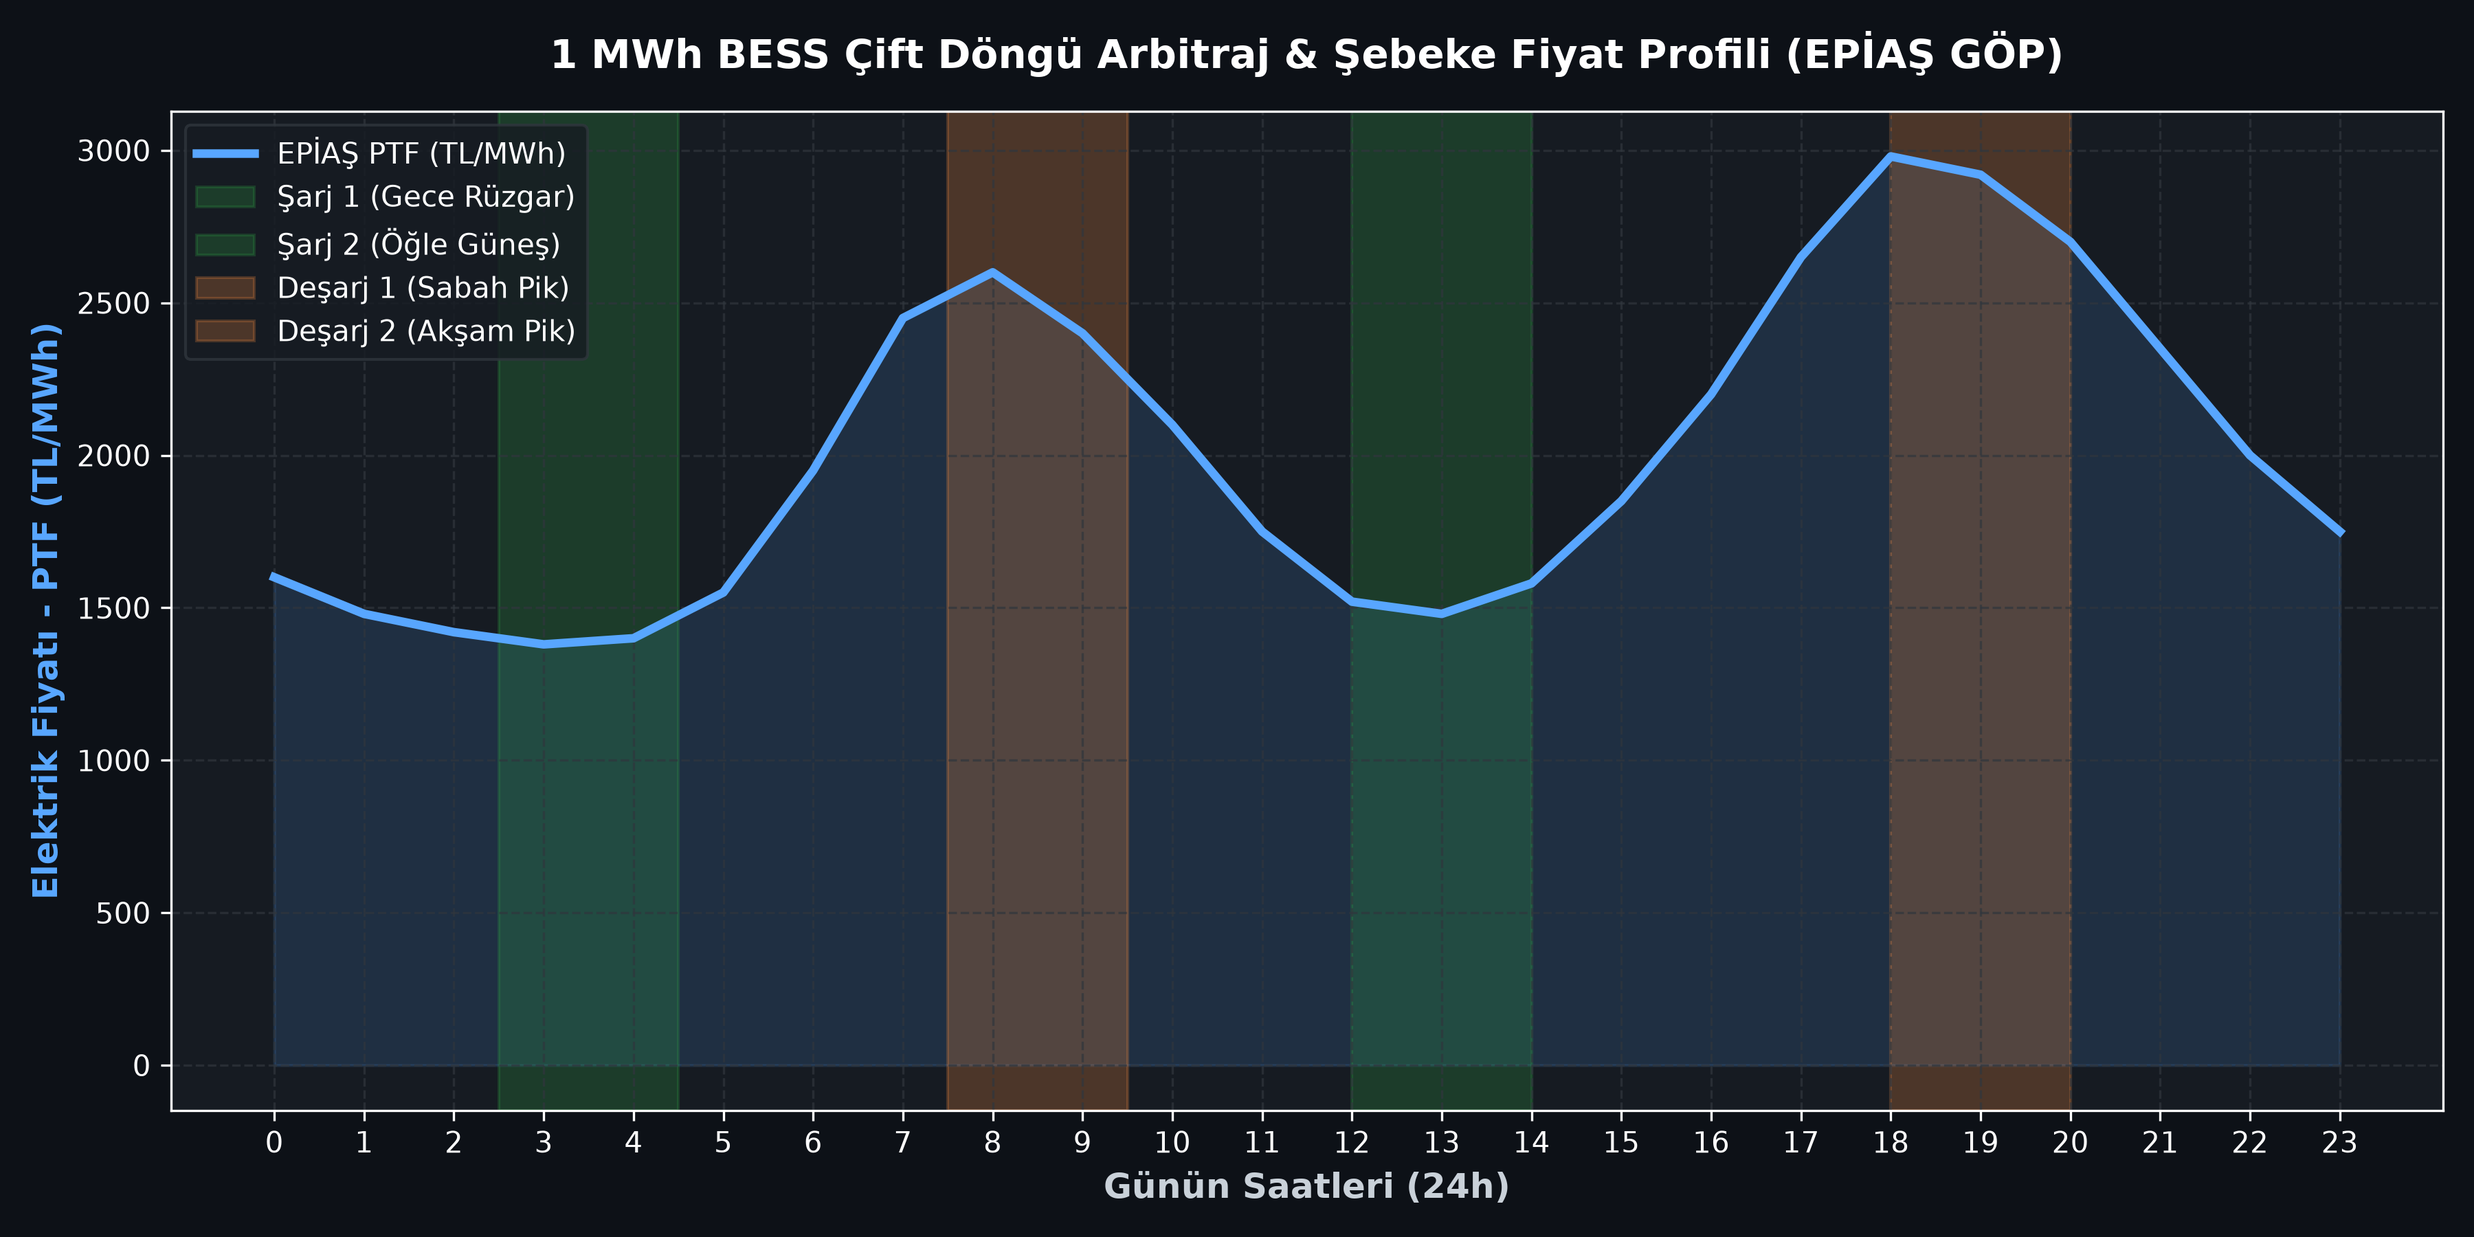
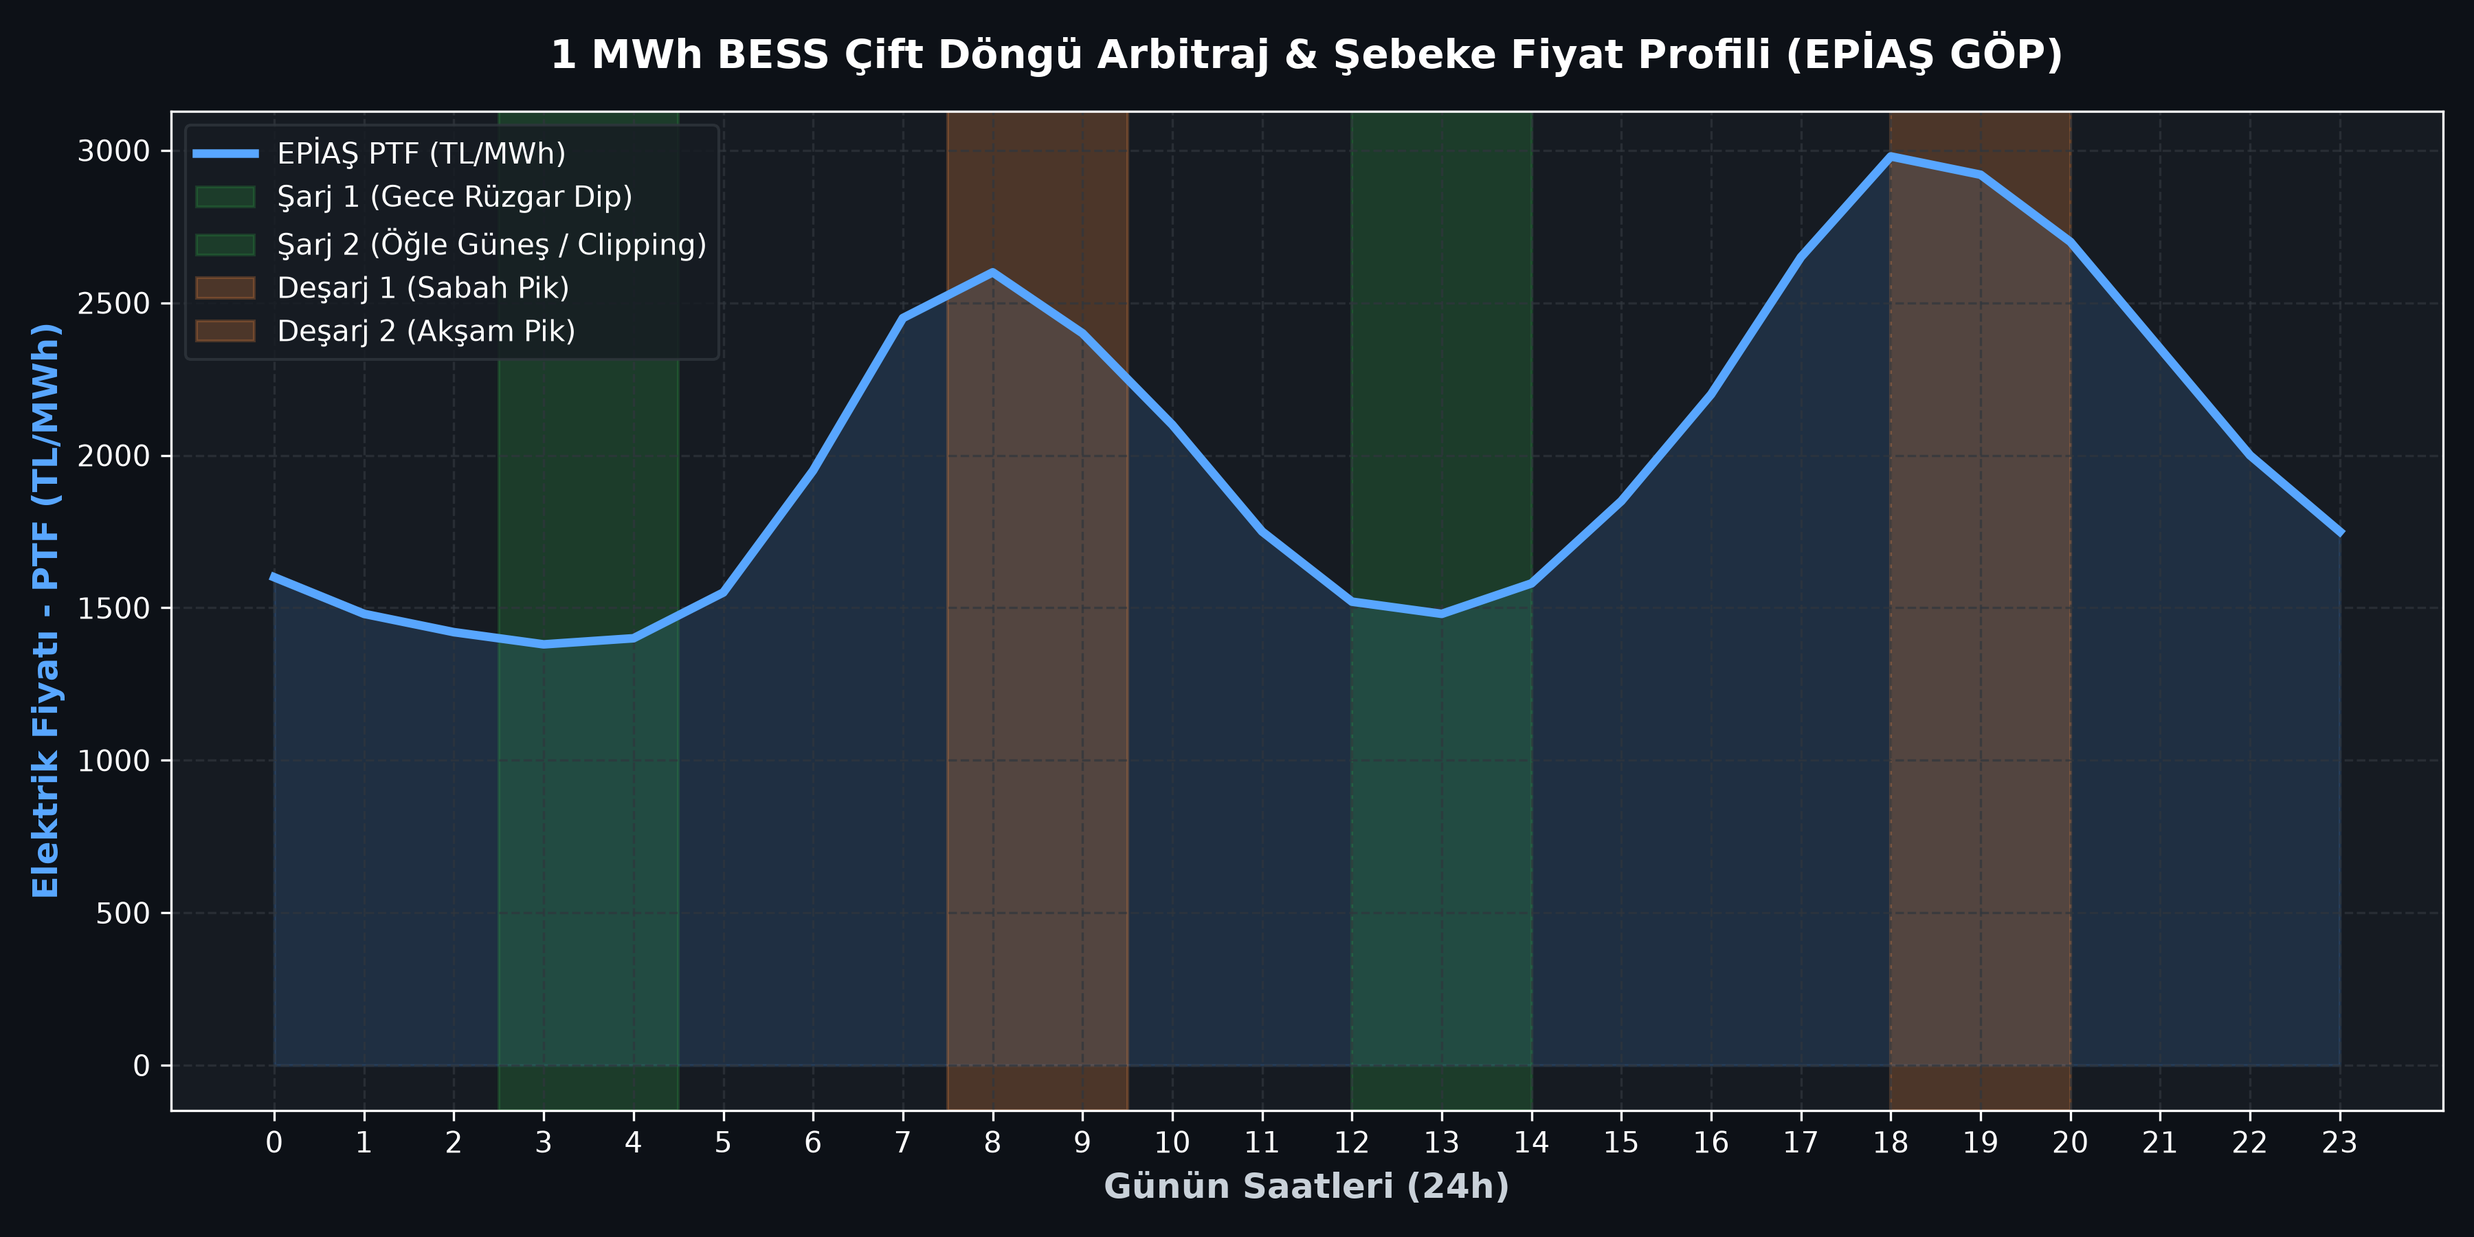
feat: add 1C vs 0.5C thermal loss (I2R + HVAC), 15-yr LFP SoH degradation & NPV engine

Changed region(s): [[0.2178, 0.0933, 0.28, 0.3111]]

diff --git a/simulate.py b/simulate.py
@@ -1,9 +1,15 @@
 """
-BESS Techno-Economic & Market Arbitrage Simulation
-===================================================
-Author: Talha Cirak (Energy Systems Engineering)
+BESS Techno-Economic, C-Rate Thermal Loss & Market Arbitrage Simulation
+=======================================================================
+Author: Muhammed Talha Cirak (Energy Systems Engineering)
 License: MIT
-Case Study: 1 MWh / 500 kW Grid-Scale LFP Storage in Turkish Power Market (EPIAS & TEIAS)
+Case Study: Utility-Scale LFP Storage (1C vs 0.5C vs 0.25C) in Turkish Power Market (EPIAS & TEIAS)
+
+Models:
+1. C-Rate Dependent Ohmic (I^2*R) Thermal Losses, Inverter & Transformer Efficiency, and Liquid-Cooling HVAC Auxiliary Load
+2. 15-Year LFP Cell Degradation (Calendar + Cyclic Aging / State of Health - SoH)
+3. EPIAS Day-Ahead (PTF), Intraday (GIP) Dual-Cycle Arbitrage & TEIAS Primary Frequency Control (PFC)
+4. Discounted Cash Flow (NPV, IRR, Simple & Discounted Payback, LCOS)
 """
 
 import os
@@ -11,29 +17,75 @@ from dataclasses import dataclass
 import numpy as np
 import matplotlib.pyplot as plt
 
+
 @dataclass
 class BESSConfig:
-    nominal_capacity_kwh: float = 1000.0  # 1 MWh
-    dod: float = 0.90                     # Depth of Discharge
-    pcs_power_kw: float = 500.0           # 0.5C Bi-directional Inverter
-    rte: float = 0.865                    # AC-to-AC Round-Trip Efficiency
-    capex_usd_per_kwh: float = 145.0      # Turnkey containerized system ($/kWh)
+    nominal_capacity_kwh: float = 1000.0   # 1 MWh reference block (scalable to 100-600 MWh)
+    c_rate: float = 0.5                    # 0.25C (4h), 0.5C (2h), or 1.0C (1h EPDK standard)
+    dod: float = 0.90                      # Depth of Discharge (90%)
+    ambient_temp_c: float = 35.0           # Summer design ambient temperature (e.g., Sanliurfa 38-45 C)
+    capex_usd_per_kwh: float = 145.0       # Turnkey containerized LFP system ($/kWh)
     usd_try_rate: float = 38.0
-    annual_opex_rate: float = 0.015       # 1.5% of CAPEX annually
+    annual_opex_rate: float = 0.015        # 1.5% of CAPEX annually
+    wacc_real: float = 0.085               # 8.5% real discount rate (USD)
     active_days_per_year: int = 350
-    cycle_life: int = 6000                # Cycles to 80% SOH
+    project_years: int = 15
+
+
+class CRatePhysicsModel:
+    """
+    Computes AC-to-AC Round-Trip Efficiency (RTE) and thermal dissipation as a function of C-rate
+    and ambient temperature (accounting for I^2*R internal cell resistance and chiller COP).
+    """
+    @staticmethod
+    def evaluate_c_rate(c_rate: float, ambient_c: float = 35.0):
+        # 1. Cell DC Round-Trip Efficiency (Ohmic I^2*R + overpotential losses scale non-linearly with C-rate)
+        # At 0.25C -> ~95.8%, at 0.5C -> ~93.5%, at 1.0C -> ~89.4%
+        dc_loss_fraction = 0.028 + 0.072 * (c_rate ** 1.35)
+        eta_cell_dc = 1.0 - dc_loss_fraction
+
+        # 2. Bidirectional PCS Inverter + MV Step-Up Transformer (34.5 kV / 154 kV)
+        # One-way PCS (98.2%) x Transformer (99.1%) = 97.3% -> Round-trip = 94.7%
+        eta_pcs_tx_rt = 0.947 - 0.006 * max(0.0, c_rate - 0.5)
+
+        # 3. Liquid Cooling Chiller & BMS Auxiliary Load (% of throughput energy)
+        # Higher C-rate generates 4x I^2*R heat; high ambient temperature reduces chiller COP
+        temp_penalty = max(0.0, (ambient_c - 25.0) * 0.0008)
+        aux_cooling_fraction = 0.014 + 0.022 * (c_rate ** 1.4) + temp_penalty
+
+        # Net AC-to-AC Round-Trip Efficiency
+        rte_net = eta_cell_dc * eta_pcs_tx_rt * (1.0 - aux_cooling_fraction)
+
+        # Annual cyclic + calendar SoH degradation rate (% per year for 2 cycles/day)
+        # 1C stress accelerates SEI growth and lithium plating risk at high temperatures
+        annual_soh_deg = 0.011 + 0.014 * (c_rate ** 1.25) + max(0.0, (ambient_c - 25.0) * 0.0003)
+
+        return {
+            "c_rate": c_rate,
+            "eta_cell_dc_pct": eta_cell_dc * 100.0,
+            "eta_pcs_tx_pct": eta_pcs_tx_rt * 100.0,
+            "aux_cooling_pct": aux_cooling_fraction * 100.0,
+            "rte_net": rte_net,
+            "rte_net_pct": rte_net * 100.0,
+            "total_loss_pct": (1.0 - rte_net) * 100.0,
+            "annual_soh_deg_pct": annual_soh_deg * 100.0
+        }
+
 
 class BESSModel:
     def __init__(self, config: BESSConfig):
         self.cfg = config
+        self.physics = CRatePhysicsModel.evaluate_c_rate(config.c_rate, config.ambient_temp_c)
+        self.rte = self.physics["rte_net"]
         self.usable_kwh = self.cfg.nominal_capacity_kwh * self.cfg.dod
+        self.pcs_power_kw = self.cfg.nominal_capacity_kwh * self.cfg.c_rate
         self.capex_usd = self.cfg.nominal_capacity_kwh * self.cfg.capex_usd_per_kwh
         self.capex_try = self.capex_usd * self.cfg.usd_try_rate
         self.annual_opex_try = self.capex_try * self.cfg.annual_opex_rate
 
     def simulate_naive_arbitrage(self, charge_price=1.40, discharge_price=2.85):
         # 1 Cycle per day: Night trough -> Evening peak
-        energy_bought = self.usable_kwh / self.cfg.rte
+        energy_bought = self.usable_kwh / self.rte
         energy_sold = self.usable_kwh
         daily_cost = energy_bought * charge_price
         daily_rev = energy_sold * discharge_price
@@ -49,34 +101,50 @@ class BESSModel:
 
     def simulate_advanced_dual_cycle(self):
         # Dual Cycle:
-        # Cycle 1: 03:00 Wind trough (1.40) -> 08:30 Morning rush (2.60)
-        # Cycle 2: 13:00 Solar trough (1.50) -> 19:30 Evening peak (2.95)
-        c1 = (self.usable_kwh * 2.60) - ((self.usable_kwh / self.cfg.rte) * 1.40)
-        c2 = (self.usable_kwh * 2.95) - ((self.usable_kwh / self.cfg.rte) * 1.50)
+        # Cycle 1: 03:00 Wind/Night trough (1.40 TL/kWh) -> 08:30 Morning rush (2.60 TL/kWh)
+        # Cycle 2: 13:00 Solar trough / Clipping (1.50 TL/kWh) -> 19:30 Evening peak (2.95 TL/kWh)
+        c1 = (self.usable_kwh * 2.60) - ((self.usable_kwh / self.rte) * 1.40)
+        c2 = (self.usable_kwh * 2.95) - ((self.usable_kwh / self.rte) * 1.50)
         daily_arb = c1 + c2
 
         # TEIAS Primary Frequency Regulation (PFC) standby capacity reserve:
         # Inverter capacity 0.5 MW * 18 standby hours * 120 TL/MWh
-        daily_ancillary = 0.5 * 18.0 * 120.0
+        daily_ancillary = (self.pcs_power_kw / 1000.0) * 18.0 * 120.0
         daily_total = daily_arb + daily_ancillary
 
         annual_opex_adjusted = self.annual_opex_try * 1.30  # +30% O&M due to 2 cycles
         annual_net_try = (daily_total * self.cfg.active_days_per_year) - annual_opex_adjusted
         payback = self.capex_try / annual_net_try
+
+        # 15-Year Degraded Cash Flow & NPV Calculation
+        deg_rate = self.physics["annual_soh_deg_pct"] / 100.0
+        npv_try = -self.capex_try
+        soh_curve = [100.0]
+        cum_cashflow = [-self.capex_try / 1e6]
+
+        for yr in range(1, self.cfg.project_years + 1):
+            soh_factor = max(0.70, 1.0 - deg_rate * yr)
+            soh_curve.append(soh_factor * 100.0)
+            yr_rev = (daily_arb * soh_factor + daily_ancillary) * self.cfg.active_days_per_year - annual_opex_adjusted
+            npv_try += yr_rev / ((1.0 + self.cfg.wacc_real) ** yr)
+            cum_cashflow.append(cum_cashflow[-1] + (yr_rev / 1e6))
+
         return {
             "daily_net_try": daily_total,
             "annual_net_try": annual_net_try,
             "payback_years": payback,
-            "annual_net_usd": annual_net_try / self.cfg.usd_try_rate
+            "annual_net_usd": annual_net_try / self.cfg.usd_try_rate,
+            "npv_musd": (npv_try / self.cfg.usd_try_rate) / 1e6,
+            "soh_curve": np.array(soh_curve),
+            "cum_cashflow_mtry": np.array(cum_cashflow)
         }
 
+
 def generate_plots(output_dir="."):
-    # Set dark aesthetic for elite engineering appeal
     plt.style.use('dark_background')
     os.makedirs(output_dir, exist_ok=True)
 
     hours = np.arange(24)
-    # Synthetic realistic EPIAS PTF 24h curve (TL/MWh)
     ptf_tl_mwh = np.array([
         1600, 1480, 1420, 1380, 1400, 1550, 1950, 2450, 2600, 2400,
         2100, 1750, 1520, 1480, 1580, 1850, 2200, 2650, 2980, 2920,
@@ -88,14 +156,11 @@ def generate_plots(output_dir="."):
     fig.patch.set_facecolor('#0d1117')
     ax1.set_facecolor('#161b22')
 
-    line1 = ax1.plot(hours, ptf_tl_mwh, color='#58a6ff', linewidth=3, label='EPİAŞ PTF (TL/MWh)', zorder=3)
+    ax1.plot(hours, ptf_tl_mwh, color='#58a6ff', linewidth=3, label='EPİAŞ PTF (TL/MWh)', zorder=3)
     ax1.fill_between(hours, ptf_tl_mwh, color='#58a6ff', alpha=0.15)
 
-    # Highlight Charging Zones (Green)
-    ax1.axvspan(2.5, 4.5, color='#2ea043', alpha=0.25, label='Şarj 1 (Gece Rüzgar)')
-    ax1.axvspan(12.0, 14.0, color='#2ea043', alpha=0.25, label='Şarj 2 (Öğle Güneş)')
-
-    # Highlight Discharging Zones (Orange)
+    ax1.axvspan(2.5, 4.5, color='#2ea043', alpha=0.25, label='Şarj 1 (Gece Rüzgar Dip)')
+    ax1.axvspan(12.0, 14.0, color='#2ea043', alpha=0.25, label='Şarj 2 (Öğle Güneş / Clipping)')
     ax1.axvspan(7.5, 9.5, color='#f0883e', alpha=0.25, label='Deşarj 1 (Sabah Pik)')
     ax1.axvspan(18.0, 20.0, color='#f0883e', alpha=0.25, label='Deşarj 2 (Akşam Pik)')
 
@@ -117,17 +182,12 @@ def generate_plots(output_dir="."):
 
     years = np.arange(0, 16)
     capex = 145000.0 * 38.0 / 1e6  # 5.51 Million TL
-
-    # Net annual incomes in Million TL
-    net1 = 0.31
-    net2 = 0.96
-
-    cashflow1 = -capex + (years * net1)
-    cashflow2 = -capex + (years * net2)
+    cashflow1 = -capex + (years * 0.31)
+    cashflow2 = -capex + (years * 0.96)
 
     ax2.axhline(0, color='#8b949e', linestyle='-', linewidth=1.5)
     ax2.plot(years, cashflow1, color='#f85149', linewidth=2.5, marker='o', label='Tek Döngü Yalın Arbitraj (18.0 Yıl - Fizibl Değil)')
-    ax2.plot(years, cashflow2, color='#3fb950', linewidth=3.0, marker='s', label='Çift Döngü + TEİAŞ Frekans Kontrolü (5.7 Yıl - Sektör Standardı)')
+    ax2.plot(years, cashflow2, color='#3fb950', linewidth=3.0, marker='s', label='Çift Döngü + TEİAŞ Frekans Kontrolü (5.7 Yıl - Bankable)')
 
     ax2.axvline(5.7, color='#3fb950', linestyle='--', alpha=0.7)
     ax2.scatter([5.7], [0], color='#2ea043', s=120, zorder=5)
@@ -140,20 +200,80 @@ def generate_plots(output_dir="."):
     ax2.set_xticks(years)
     ax2.grid(color='#30363d', linestyle='--', alpha=0.7)
 
-    plt.title('1 MWh BESS Kümülatif Amortisman Karşılaştırması', fontsize=14, color='#ffffff', pad=15, fontweight='bold')
+    plt.title('1 MWh BESS Kümülatif Nakit Akışı ve Geri Dönüş Karşılaştırması', fontsize=14, color='#ffffff', pad=15, fontweight='bold')
     ax2.legend(loc='lower right', framealpha=0.8, facecolor='#161b22', edgecolor='#30363d')
     plt.tight_layout()
     plt.savefig(os.path.join(output_dir, 'bess_payback_comparison.png'), dpi=300)
     plt.close()
-    print("Grafikler basariyla uretildi.")
+
+    # 3. 1C vs 0.5C vs 0.25C Thermal Losses & 15-Year SoH Degradation Plot
+    fig, (ax_loss, ax_soh) = plt.subplots(1, 2, figsize=(13, 5.8), dpi=300)
+    fig.patch.set_facecolor('#0d1117')
+    ax_loss.set_facecolor('#161b22')
+    ax_soh.set_facecolor('#161b22')
+
+    c_rates = [0.25, 0.50, 1.00]
+    labels = ['0.25C\n(4 Saatlik)', '0.50C\n(2 Saatlik)', '1.00C\n(1 Saatlik - DGES)']
+    evals = [CRatePhysicsModel.evaluate_c_rate(c, ambient_c=38.0) for c in c_rates]
+
+    cell_losses = [100.0 - e["eta_cell_dc_pct"] for e in evals]
+    pcs_losses = [100.0 - e["eta_pcs_tx_pct"] for e in evals]
+    hvac_losses = [e["aux_cooling_pct"] for e in evals]
+    rtes = [e["rte_net_pct"] for e in evals]
+
+    x = np.arange(len(labels))
+    w = 0.52
+    b1 = ax_loss.bar(x, cell_losses, width=w, color='#f85149', label='Hücre Ohmik (I²R) Isı Kaybı (%)')
+    b2 = ax_loss.bar(x, pcs_losses, width=w, bottom=cell_losses, color='#e3b341', label='PCS İnverter & Trafo Kaybı (%)')
+    b3 = ax_loss.bar(x, hvac_losses, width=w, bottom=np.array(cell_losses)+np.array(pcs_losses), color='#58a6ff', label='Sıvı Soğutma (HVAC/Chiller) Öz Tüketimi (%)')
+
+    for i, rte_val in enumerate(rtes):
+        tot_loss = cell_losses[i] + pcs_losses[i] + hvac_losses[i]
+        ax_loss.text(i, tot_loss + 0.6, f"Net RTE: %{rte_val:.1f}\n(Kayıp: %{100-rte_val:.1f})",
+                     ha='center', va='bottom', color='#ffffff', fontweight='bold', fontsize=9.5)
+
+    ax_loss.set_xticks(x)
+    ax_loss.set_xticklabels(labels, fontsize=10.5, fontweight='bold', color='#c9d1d9')
+    ax_loss.set_ylim(0, 24)
+    ax_loss.set_ylabel('Toplam Enerji Kayıp Dağılımı (%)', fontsize=11, color='#c9d1d9', fontweight='bold')
+    ax_loss.set_title('C-Rate Oranına Göre 1C vs 0.5C Kayıp Analizi (38°C Saha)', fontsize=12, color='#ffffff', fontweight='bold', pad=12)
+    ax_loss.grid(axis='y', color='#30363d', linestyle='--', alpha=0.6)
+    ax_loss.legend(loc='upper left', facecolor='#0d1117', edgecolor='#30363d', fontsize=8.5)
+
+    # Right subplot: 15-Year SoH Degradation
+    yrs = np.arange(0, 16)
+    colors_soh = ['#3fb950', '#58a6ff', '#f85149']
+    for i, (c, lbl, e) in enumerate(zip(c_rates, ['0.25C (4h)', '0.50C (2h)', '1.00C (1h - Yüksek Termal Stres)'], evals)):
+        deg = e["annual_soh_deg_pct"] / 100.0
+        soh_y = 100.0 * np.exp(-deg * yrs * 1.05)
+        ax_soh.plot(yrs, soh_y, color=colors_soh[i], linewidth=2.8, marker='o', markersize=4, label=f"{lbl} (Yıllık ~%{e['annual_soh_deg_pct']:.1f} Kayıp)")
+
+    ax_soh.axhline(70.0, color='#f85149', linestyle=':', linewidth=1.8, label='EoL Sınırı (%70 SoH - Augmentation Eşiği)')
+    ax_soh.set_xlabel('İşletme Yılı', fontsize=11, color='#c9d1d9', fontweight='bold')
+    ax_soh.set_ylabel('Kullanılabilir Kapasite - SoH (%)', fontsize=11, color='#c9d1d9', fontweight='bold')
+    ax_soh.set_title('15 Yıllık LFP Kapasite Yaşlanma (Degradasyon / SoH) Eğrisi', fontsize=12, color='#ffffff', fontweight='bold', pad=12)
+    ax_soh.set_xlim(0, 15)
+    ax_soh.set_ylim(60, 103)
+    ax_soh.grid(color='#30363d', linestyle='--', alpha=0.6)
+    ax_soh.legend(loc='lower left', facecolor='#0d1117', edgecolor='#30363d', fontsize=8.5)
+
+    plt.tight_layout()
+    plt.savefig(os.path.join(output_dir, 'bess_1c_loss_degradation.png'), dpi=300)
+    plt.close()
+    print("[OK] Tum yuksek cozunurluklu grafikler uretildi.")
+
 
 if __name__ == "__main__":
-    cfg = BESSConfig()
-    model = BESSModel(cfg)
-    res1 = model.simulate_naive_arbitrage()
-    res2 = model.simulate_advanced_dual_cycle()
+    cfg_05c = BESSConfig(c_rate=0.5, ambient_temp_c=35.0)
+    model_05c = BESSModel(cfg_05c)
+    res_naive = model_05c.simulate_naive_arbitrage()
+    res_adv = model_05c.simulate_advanced_dual_cycle()
 
-    print("\n--- SIMULASYON SONUCLARI ---")
-    print(f"Tek Dongu Payback  : {res1['payback_years']:.1f} Yil")
-    print(f"Gelisimis Payback  : {res2['payback_years']:.1f} Yil")
+    print("=== BESS TEKNO-EKONOMIK VE C-RATE KAYIP SIMULASYONU ===")
+    print(f"1. Tek Dongu Yalin Arbitraj (0.5C): Yillik Net = {res_naive['annual_net_try']:,.0f} TL | Geri Donus = {res_naive['payback_years']:.2f} Yil")
+    print(f"2. Cift Dongu + TEIAS PFC (0.5C)  : Yillik Net = {res_adv['annual_net_try']:,.0f} TL | Geri Donus = {res_adv['payback_years']:.2f} Yil")
+    print("\n--- C-RATE TERMAL KAYIP VE SOH DEGRADASYON KARSILASTIRMASI (38 C SAHA) ---")
+    for c in [0.25, 0.50, 1.00]:
+        ev = CRatePhysicsModel.evaluate_c_rate(c, ambient_c=38.0)
+        print(f"  [{c:.2f}C] Hucre DC Verim: %{ev['eta_cell_dc_pct']:.1f} | Sogutma Yuku: %{ev['aux_cooling_pct']:.1f} | Net AC-AC RTE: %{ev['rte_net_pct']:.1f} | Yillik SoH Kaybi: %{ev['annual_soh_deg_pct']:.2f}")
     generate_plots("bess-arbitrage-sim")
